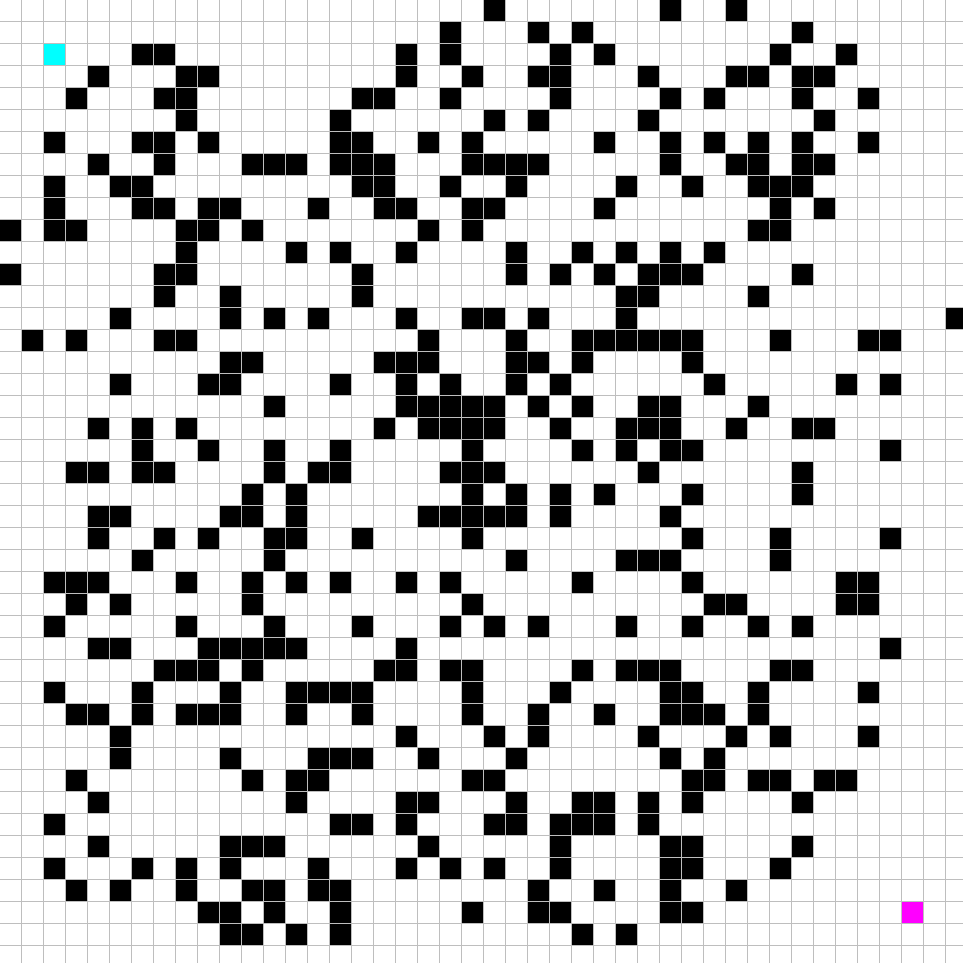
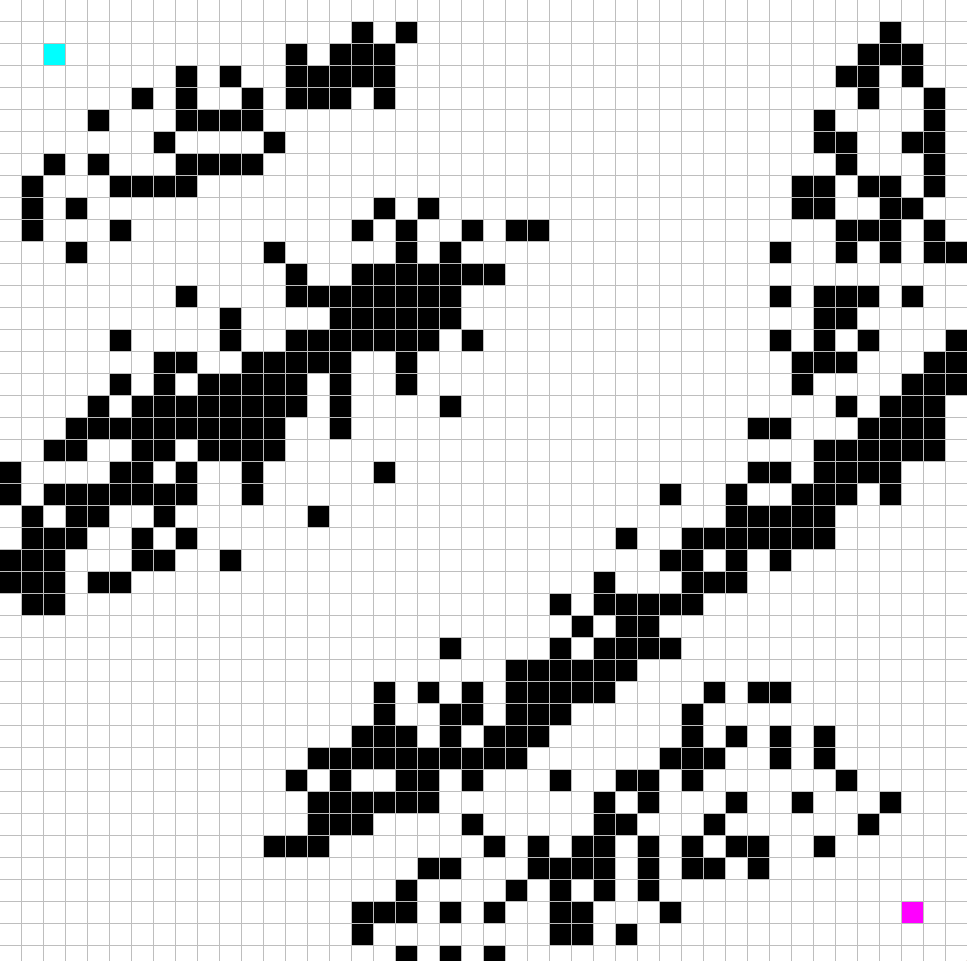
Updated images for 8 dimension path finding change

diff --git a/README.md b/README.md
@@ -88,7 +88,8 @@ python A_star_algorithm_pygame.py
 ![Step 2](image-2.png)
 ![Step 3](image-3.png)
 ![Step 4](image-4.png)
-![Step 5-6](image-5.png)
+![Step 5](image-5.png)
+![Step 6](image-6.png)
 
 ---
 
